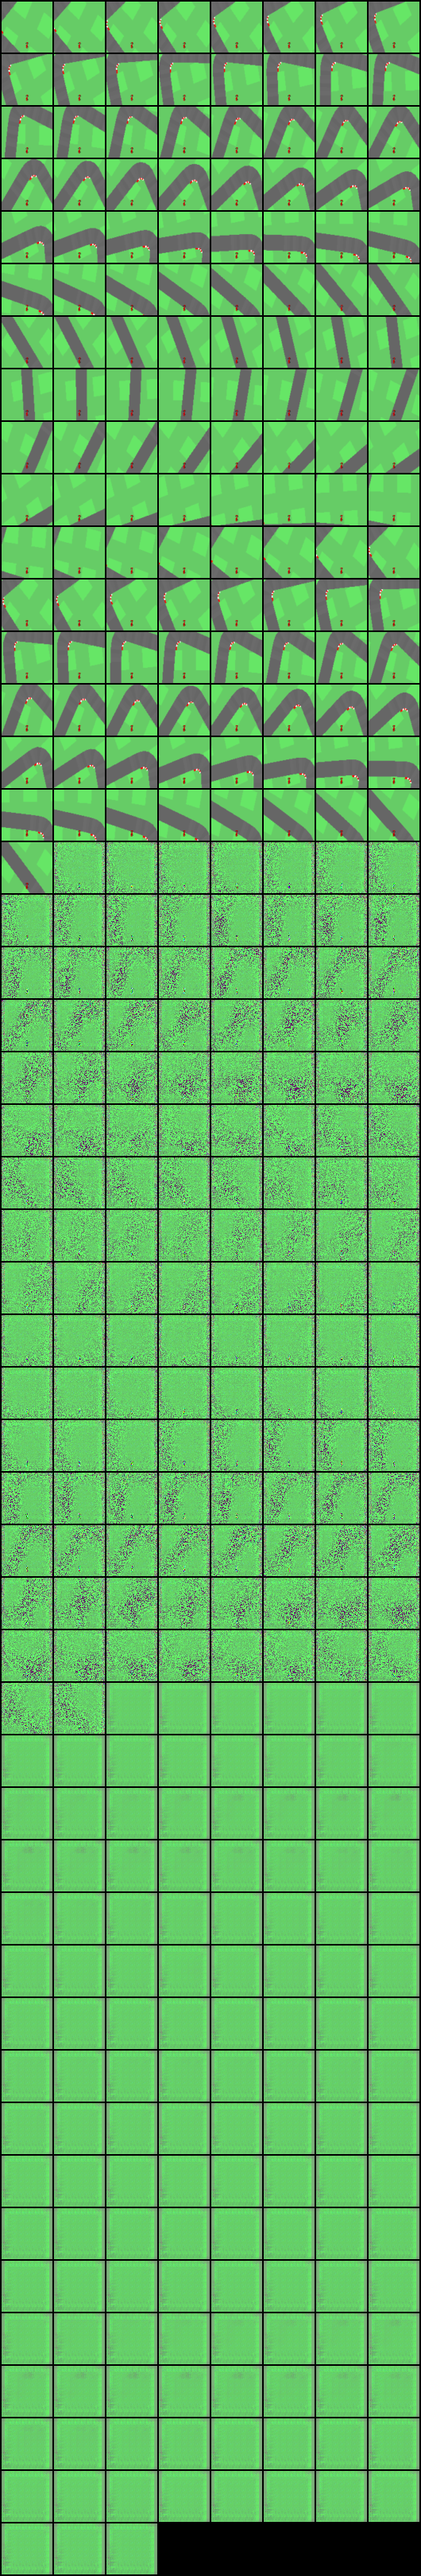
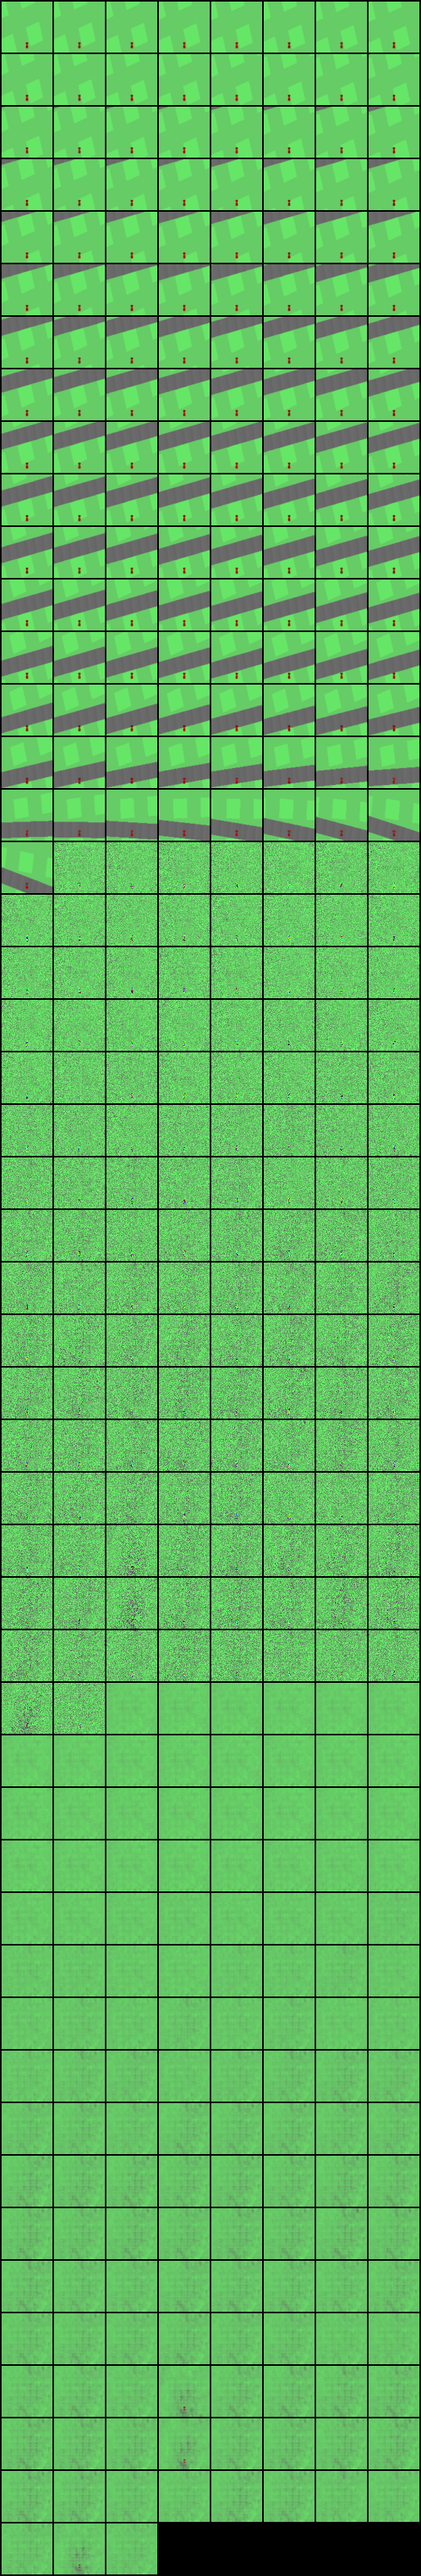
pushing overnight training

diff --git a/train_joint.py b/train_joint.py
@@ -45,7 +45,7 @@ def main(args):
     SEQ_LEN = 128 #256
     epochs = 50
     time_limit =1000 # for the rollouts generated
-    num_vae_mdrnn_training_rollouts_per_worker = 1
+    num_vae_mdrnn_training_rollouts_per_worker = 3
 
     kl_tolerance=0.5
     kl_tolerance_scaled = torch.Tensor([kl_tolerance*LATENT_SIZE]).to(device)
@@ -98,7 +98,7 @@ def main(args):
                 model_var.load_state_dict(state['state_dict'])
 
                 # load in the training loop states only if all jointly trained together before
-                if not args.reload_from_pretrain: 
+                if not args.reload_from_pretrain and name =='mdrnn': 
                     # this info is currently saved with the vae and mdrnn on their own pulling from mdrnn as its currently the last.
                     print(' Loading in training state info (eg optimizer state) from last model in iter list:', name)
                     optimizer.load_state_dict(state["optimizer"])
@@ -234,6 +234,7 @@ def main(args):
                 optimizer.zero_grad()
                 total_loss.backward()
                 # TODO: consider adding gradient clipping like Ha.  
+                # torch.nn.utils.clip_grad_norm_(list(vae.parameters())+list(mdrnn.parameters()), 100.0)
                 optimizer.step()
             else:
                 with torch.no_grad():
